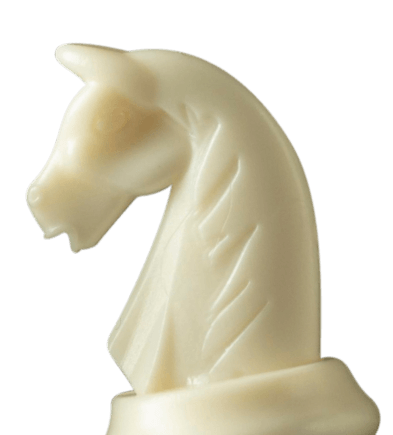
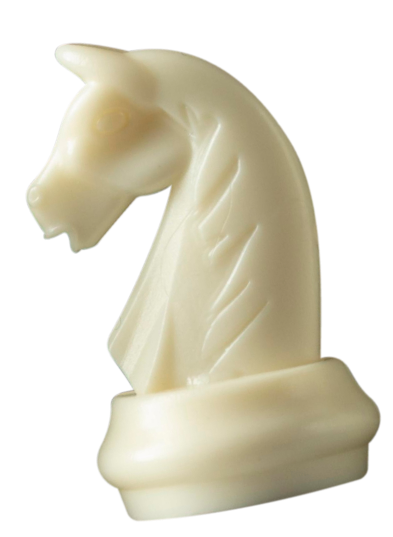
hero mobile

diff --git a/css/blocks/hero.css b/css/blocks/hero.css
@@ -60,12 +60,13 @@
   }
 
   & .hero__title {
-    margin: 0;
+    margin: var(--space20) 0 0;
     display: grid;
     font-weight: 400;
     font-size: 1.8rem;
     line-height: 1.1em;
     text-transform: uppercase;
+    letter-spacing: 1px;
 
     /* tablet */
     @media (width >= 768px) {
@@ -98,7 +99,7 @@
   }
 
   & .hero__actions {
-    margin-top: var(--space32);
+    margin-top: 31px;
     max-width: 360px;
     margin-inline: auto;
     display: grid;
@@ -116,7 +117,7 @@
 
   & .hero__images {
     position: relative;
-    margin-top: 60px;
+    margin-top: 49px;
     z-index: 0;
 
     /* tablet */
@@ -153,14 +154,16 @@
 
     .chess-1 {
       position: absolute;
-      width: 47px;
+      width: 59px;
       height: auto;
-      top: -15px;
-      right: 20vw;
+      top: -30px;
+      right: 23vw;
+      transform: rotate(7.41deg);
       z-index: 1;
 
       /* tablet */
       @media (width >= 768px) {
+        transform: rotate(0deg);
         width: 113px;
         top: -80px;
         right: 300px;
@@ -169,10 +172,10 @@
 
     .chess-2 {
       position: absolute;
-      width: 47px;
+      width: 62px;
       height: auto;
-      top: 35px;
-      left: 20vw;
+      top: 9px;
+      left: 16vw;
       z-index: 1;
 
       /* tablet */
@@ -185,10 +188,10 @@
 
     .chess-3 {
       position: absolute;
-      width: 77px;
+      width: 95px;
       height: auto;
-      bottom: 0;
-      left: 50vw;
+      bottom: -14px;
+      left: 39vw;
       z-index: 3;
 
       /* tablet */
@@ -219,8 +222,8 @@
       height: auto;
       position: absolute;
       z-index: 0;
-      top: 0;
-      left: 50%;
+      top: 26px;
+      left: 48%;
       transform: translate(-50%, -50%);
       animation: sun 20s infinite linear;
 

diff --git a/css/components/logo.css b/css/components/logo.css
@@ -3,10 +3,12 @@
   gap: 5px;
   color: #595653;
   font-size: 14.42px;
-  line-height: 1.06em;
+  line-height: 1.08em;
   font-weight: 700;
   text-transform: uppercase;
 
   svg {
+    width: 79.5px;
+    height: auto;
   }
 }

diff --git a/css/components/btn-hero.css b/css/components/btn-hero.css
@@ -6,7 +6,7 @@
   justify-content: center;
   align-items: center;
   text-align: center;
-  padding: 8px 20px;
+  padding: 9px 20px 10px;
   border-radius: 66px;
   font-size: 0.8rem;
   background-color: var(--color-btn);